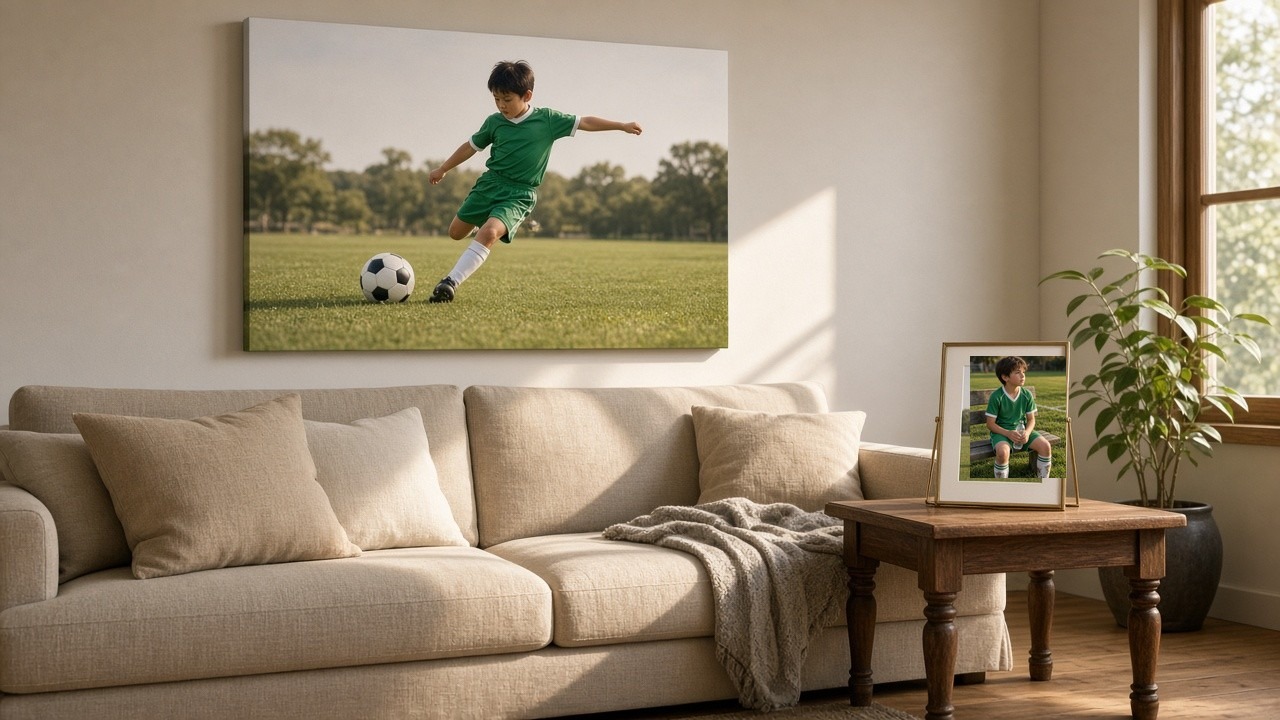
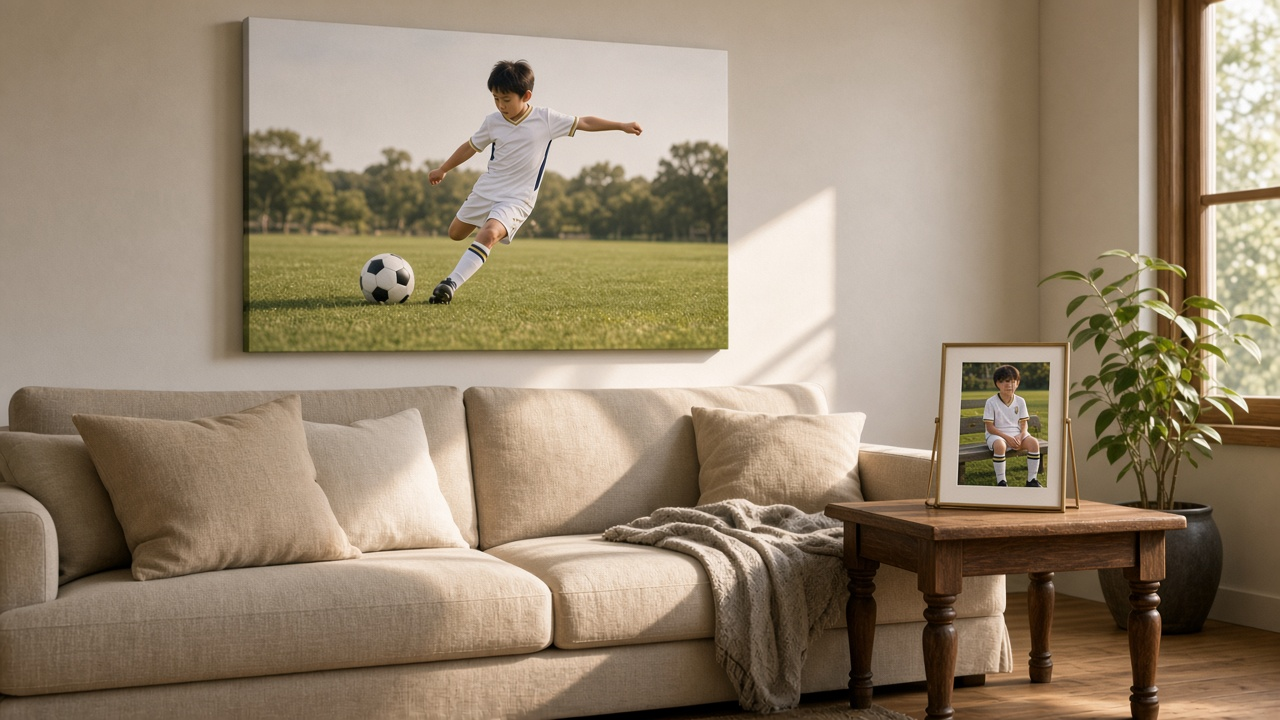
あ

diff --git a/index.html b/index.html
@@ -193,7 +193,7 @@
           </div>
           <figure class="hero-figure">
             <div class="img-wrap proof">
-              <img class="tone" src="images/room.jpg?v=2" width="1280" height="720" alt="リビングの壁に、ボールを蹴る緑のユニフォームの写真がキャンバスで掛かり、脇の机の写真立てにはベンチに座る別の一枚が置いてある。" fetchpriority="high">
+              <img class="tone" src="images/room.jpg?v=3" width="1280" height="720" alt="リビングの壁に、白いユニフォームでボールを蹴る写真がキャンバスで掛かり、脇の机の写真立てには同じウェアでベンチに座る一枚が、白い余白の内側に収まっている。" fetchpriority="high">
             </div>
           </figure>
         </div>
